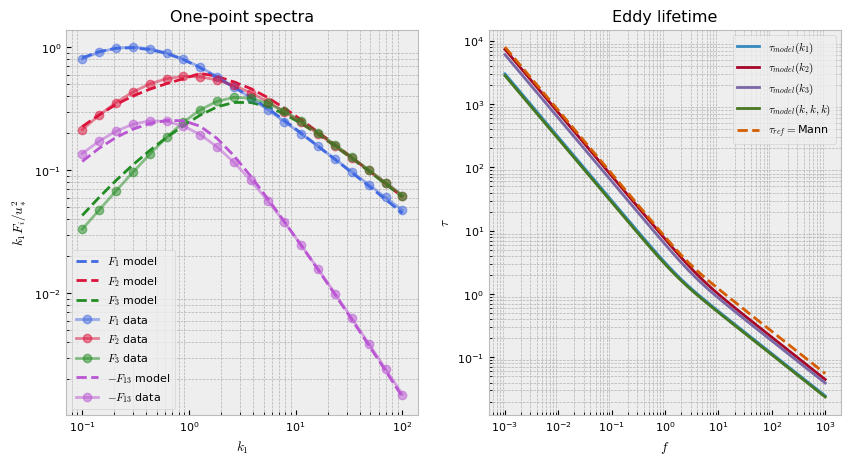
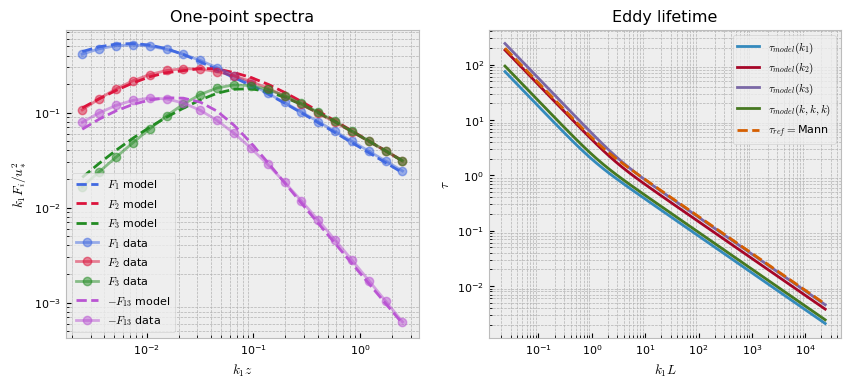
update paper and add gh action to compile

diff --git a/examples/02_eddy-lifetime_fit.py b/examples/02_eddy-lifetime_fit.py
@@ -52,7 +52,7 @@ ustar = 0.556  # friction velocity
 # Scales associated with Kaimal spectrum
 L = 0.593 * zref  # length scale
 Gamma = 3.89  # time scale
-sigma = 0.052  # magnitude (σ = αϵ^{2/3})
+sigma = 3.2 * ustar**2.0 / zref ** (2.0 / 3.0)  # magnitude (σ = αϵ^{2/3})
 
 print(f"Physical Parameters: {L,Gamma,sigma}")
 

diff --git a/paper/paper.md b/paper/paper.md
@@ -29,21 +29,21 @@ bibliography: paper.bib
 
 # Summary
 
-Synthetic turbulence models (STMs) are commonly used to generate realistic flow fields and employed as inputs to wind simulations. Examples include prescribing inlet conditions and inflow wind fields to model loads on wind turbines and tall buildings. We are interested in STMs able to generate fluctuations based on prescribed second-moment statistics as this allows scientists and engineers to simulate many environmental conditions as close as possible to on-site measurements. The Mann model [@mann_spatial:1994; @mann_wind:1998], which is the inspiration for this software package, contains three physical parameters: a magnitude parameter corresponding to the Kolmogorov constant multiplied by the rate of the viscous dissipation of specific turbulence kinetic energy to the two thirds, $\alpha \epsilon^{2/3}$, a turbulence length scale parameter, $L$, and a non-dimensional parameter related to the lifetime of the eddies, $\Gamma$. A number of studies as well as international standards (e.g., the International Electrotechnical Commission) include recommendations for the values of these three parameters with the goal of standardizing wind simulations to have realistic energy spectra. Yet, having only three parameters, the Mann model faces limitations in accurately representing the diversity of observable spectra. This Python package, `DRDMannTurb`, allows users to extend the Mann model and more accurately fit field measurements through a neural network model of the eddy lifetime function. Following [Keith:2021], we refer to this class of models as deep rapid distortion (DRD) models. Once fitted, a DRD model is no more expensive for simulating turbulence than a Mann model. Moreover, `DRDMannTurb` comes with a state-of-the-art domain decomposition-based simulator for generating turbulence boxes for both the Mann and DRD models.
+Synthetic turbulence models (STMs) are commonly used to generate realistic flow fields and employed as inputs to wind simulations. Examples include prescribing inlet conditions and inflow wind fields to model loads on wind turbines and tall buildings. We are interested in STMs able to generate fluctuations based on prescribed second-moment statistics as this allows scientists and engineers to simulate many environmental conditions as close as possible to on-site measurements. The Mann model [@mann_spatial:1994; @mann_wind:1998], which is the inspiration for this software package, contains three physical parameters: a magnitude parameter corresponding to the Kolmogorov constant multiplied by the rate of the viscous dissipation of specific turbulence kinetic energy to the two thirds, $\alpha \epsilon^{2/3}$, a turbulence length scale parameter, $L$, and a non-dimensional parameter $\Gamma$ related to the lifetime of the eddies. A number of studies as well as international standards (e.g., the International Electrotechnical Commission) include recommendations for the values of these three parameters with the goal of standardizing wind simulations to have realistic energy spectra. Yet, having only three parameters, the Mann model faces limitations in accurately representing the diversity of observable spectra. This Python package, `DRDMannTurb`, allows users to extend the Mann model and more accurately fit field measurements through a neural network model of the eddy lifetime function. Following [Keith:2021], we refer to this class of models as deep rapid distortion (DRD) models. Once fitted, a DRD model is no more expensive for simulating turbulence than a Mann model. Moreover, `DRDMannTurb` comes with a state-of-the-art domain decomposition-based simulator for generating turbulence boxes for both the Mann and DRD models.
 
 # Statement of need
 
-`DRDMannTurb` is a package that aims to create an easy-to-use framework to (1) fit one-point spectra from data using the DRD model introduced in [Keith:2021] and (2) to efficiently generate synthetic turbulence velocity fields to be used by scientists and engineers in downstream tasks. Existing methodologies for generating synthetic turbulence frequently incur a large computational overhead are lack the flexibility to represent the diverse spectral properties of real-world observations. `DRDMannTurb` addresses these two issues by introducing (1) a module for fitting neural network-based DRD models to observed one-point spectra data, as well as (2) a module for efficiently generating synthetic turbulence boxes. Rather than generating turbulence for the entire box at once, a highly memory-intensive practice used in other software, `DRDMannTurb` uses a state-of-the-art domain decomposition approach to generate smaller sub-boxes sequentially.
+`DRDMannTurb` aims to create an easy-to-use framework to (1) fit one-point spectra from data using the DRD model introduced in [Keith:2021] and (2) to efficiently generate synthetic turbulence velocity fields to be used by scientists and engineers in downstream tasks. Existing methodologies for generating synthetic turbulence frequently incur a large computational overhead and lack the flexibility to represent the diverse spectral properties of real-world observations. `DRDMannTurb` addresses these two issues by introducing (1) a module for fitting neural network-based DRD models to observed one-point spectra data as well as (2) a module for efficiently generating synthetic turbulence boxes. Rather than generating turbulence for the entire box at once, a highly memory-intensive practice used in other software, `DRDMannTurb` uses a state-of-the-art domain decomposition approach to generate smaller sub-boxes sequentially.
 
-`DRDMannTurb` is completely written in Python, leveraging computationally powerful backend packages ('numpy', 'PyTorch'). Our implementation allows for easy GPU-portability using `cuda`. This is an additional advantage compared to previously developed software packages that have implemented the Mann model but do not provide the source code (e.g., HAWC2). Finally, `DRDMannTurb` is designed to be more general-purpose, allowing it to be applied in a broader range of scenarios, as well as be more accessible and with clear documentation of a variety of tasks that researchers in this area frequently use. 
+`DRDMannTurb` is completely written in Python, leveraging computationally powerful backend packages (`numpy`, `PyTorch`). Our implementation allows for easy GPU-portability using `cuda`. This is an additional advantage compared to previously developed software packages that have implemented the Mann model but do not provide the source code (e.g., HAWC2). Finally, `DRDMannTurb` is designed to be more general-purpose, allowing it to be applied in a broader range of scenarios, as well as be more accessible and with clear documentation of a variety of tasks that researchers in this area frequently use. 
 
 # Results
 
-The output of the fitting component of ``DRDMannTurb`` consists of two parts: the spectra fit by a DRD model and the learned eddy lifetime function. Below, a sample fitting is provided for the Kaimal spectra and Mann model. The resulting fit is better than a fit by the Mann uniform shear model. 
+The output of the fitting component of ``DRDMannTurb`` consists of two parts: the spectra fit by a DRD model and the learned eddy lifetime function. Below, a sample fitting is provided for the Kaimal spectra and Mann model. Our spectra fit is more accurate than that of the Mann uniform shear model. 
 
-![](synthetic_fit.png)
+![Mann Model Fit](mann_fit.png) { width=49% } ![Synthetic DRD Model Fit](synthetic_fit.png) { width=49% }
 
-
+After fitting to the spectra, the resulting models can also be used to generate 3D wind fields with spectra closely resembling those of the observations used in training. 
 
 For more detailed discussions of results, please see the official examples.  
 
@@ -58,5 +58,7 @@ For more detailed discussions of results, please see the official examples.
 
 This work was authored (in part) by the National Renewable Energy Laboratory, operated by Alliance for Sustainable Energy, LLC, for the U.S. Department of Energy (DOE) under Contract No. DE-AC36-08GO28308. Funding provided by the U.S. Department of Energy Office of Energy Efficiency and Renewable Energy Wind Energy Technologies Office. The views expressed in the article do not necessarily represent the views of the DOE or the U.S. Government. The U.S. Government retains and the publisher, by accepting the article for publication, acknowledges that the U.S. Government retains a nonexclusive, paid-up, irrevocable, worldwide license to publish or reproduce the published form of this work, or allow others to do so, for U.S. Government purposes. 
 
+# Citations 
+- `@Keith:2021` -> "Keith et al. (2021)"
 
 # References
